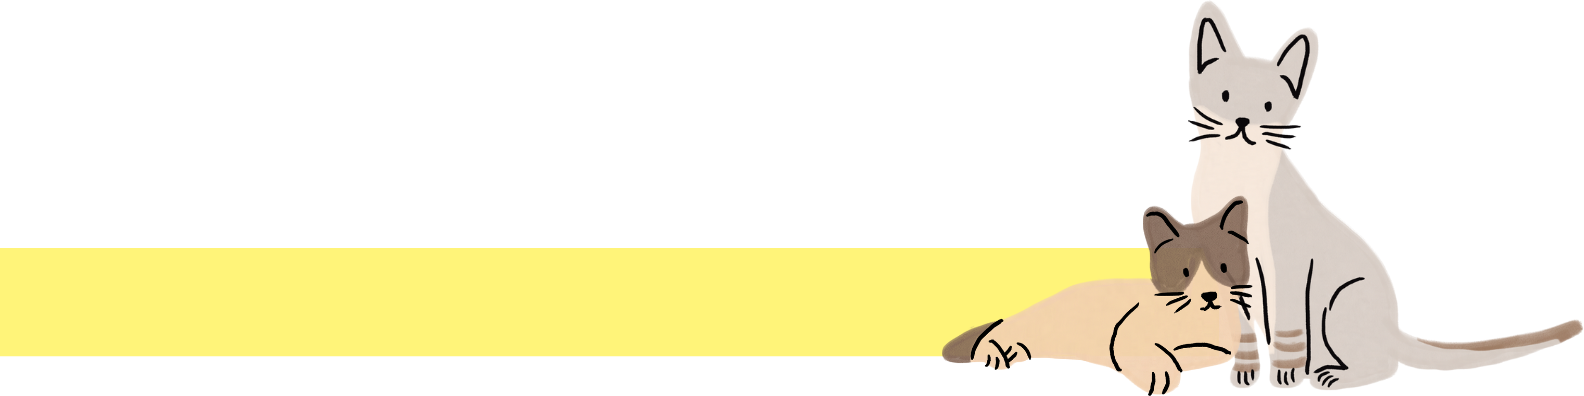
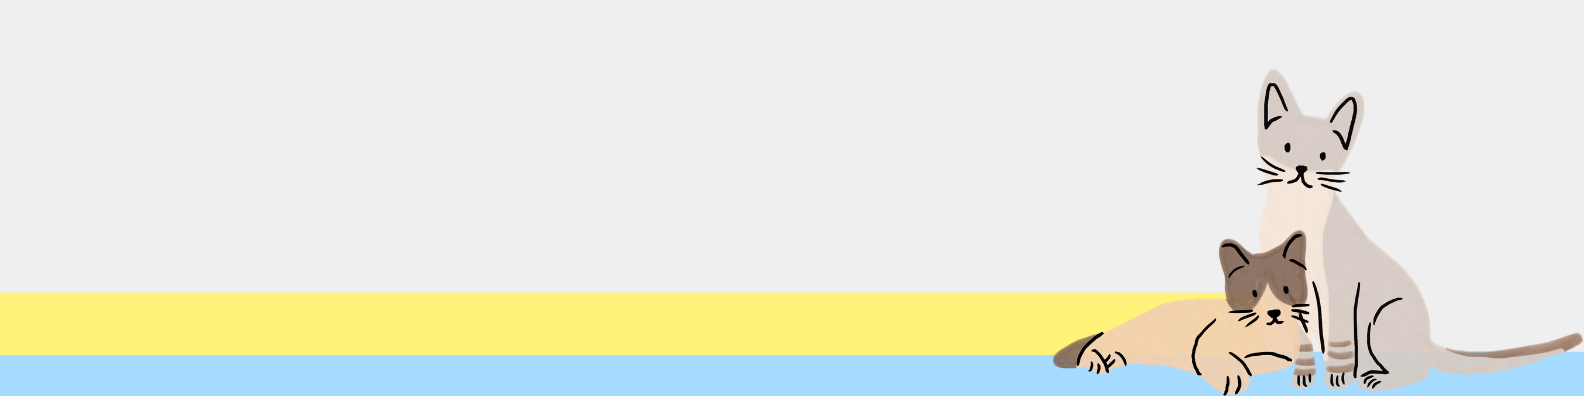
finalização home page

Changed region(s): [[0.0, 0.0, 1.0, 1.0]]

diff --git a/vite-project/src/components/Footer/Footer.jsx b/vite-project/src/components/Footer/Footer.jsx
@@ -1,15 +1,63 @@
+import "./Footer.css";
 
 const Footer = () => {
     return(
-        <footer>
-            <div className="parent-div-social-media">
+        <footer className="footer-component">
 
+            <div className="parent-div-midias-sociais">
+                <h2>Acesse também nossas redes sociais:</h2>
+                <div className="child-div-midias-sociais">
+                    <a href="https://www.facebook.com/ongparaisodosfocinhos">
+                        <img src="https://upload.wikimedia.org/wikipedia/commons/thumb/5/51/Facebook_f_logo_%282019%29.svg/2048px-Facebook_f_logo_%282019%29.svg.png" 
+                            width={60} alt="" />
+                    </a>
+                    <a href="https://www.instagram.com/ongparaisodosfocinhos/?hl=pt">
+                        <img src="https://upload.wikimedia.org/wikipedia/commons/thumb/a/a5/Instagram_icon.png/2048px-Instagram_icon.png" 
+                            width={60} alt="" />
+                    </a>
+                    <a href="https://www.tiktok.com/@ongparaisodosfocinhos?_d=dj45aci9i31688&language=pt&sec_uid=MS4wLjABAAAAlpfpmsh2jafjFVF0VUKi2T0tgUYZYOH6Nwvn71P8R3unfu7qLhoNKGEyDkVaIr5y&share_author_id=6873125894418023430&u_code=deec6f349hkg4l&timestamp=1631815310&us=&_r=1">
+                        <img src="https://icones.pro/wp-content/uploads/2021/03/logo-icone-tiktok-simbolo.png" 
+                            width={60} alt="" />
+                    </a>
+                </div>
             </div>
-
-            
+{/* 
+            <div className="child-div-info-footer">
+                <p>ONG criada para proteger animais de rua. </p>
+                <p>(CNPJ) 19.614.984/0001-29.</p>
+                <br />
+                <div className="child-div-redirect">
+                    <p> <a>Apadrinhe um peludo! </a></p>
+                    <p> <a>Adote </a></p>
+                    <p> <a>Seja um voluntário</a></p>
+                </div>
+            </div> */}
 
         </footer>
     )
 }
 
 export default Footer
+
+            {/* <div className="parent-div-social-media">
+                <span className="child-div-social-media">
+                    <img src="https://upload.wikimedia.org/wikipedia/commons/thumb/5/51/Facebook_f_logo_%282019%29.svg/2048px-Facebook_f_logo_%282019%29.svg.png" 
+                        width={70} alt="" />
+                    <p className="description-social-media">Facebook</p>
+                </span>
+                <span className="child-div-social-media">
+                    <img src="https://upload.wikimedia.org/wikipedia/commons/thumb/a/a5/Instagram_icon.png/2048px-Instagram_icon.png" 
+                        width={70} alt="" />
+                    <p className="description-social-media">Instagram</p>
+                </span>
+                <span className="child-div-social-media">
+                    <img src="https://icones.pro/wp-content/uploads/2021/03/logo-icone-tiktok-simbolo.png" 
+                        width={70} alt="" />
+                    <p className="description-social-media">TikTok</p>
+                </span>
+                <span className="child-div-social-media">
+                    <img src="https://www.freepnglogos.com/uploads/youtube-play-red-logo-png-transparent-background-6.png" 
+                        width={70} alt="" />
+                    <p className="description-social-media">YouTube</p>
+                </span>
+            </div> */}

diff --git a/vite-project/src/components/Adote/Adote.jsx b/vite-project/src/components/Adote/Adote.jsx
@@ -1,25 +1,31 @@
-import "./Adote.css"
+import "./Adote.css";
 
 const Adote = () => {
 
     return (
-        <div>
+        <div className="parent-div-">
             <div className="parent-div-adote">
                 <div className="child-div-img-adote">
                     <img src="../../../public/img/imgilustrativa-adote.png" width={400} alt="" />
                 </div>
                 <div className="child-div-Adote-text">
                     <h2 id="chamada-adocao-texto"> Adote um peludinho!</h2>
-                    <p id="texto-explicacao-adote">
-                    Nossa maior preocupação é garantir o bem estar dos animais oferecidos para adoção. Muitos deles já sofreram maus tratos e abusos e precisamos garantir que não sofram novamente qualquer tipo de privação. Por isso contamos com sua compreensão e paciência, para preencher o questionário de avaliação abaixo. Ele será também muito útil para nos orientar a definir o perfil do animal mais adequando para você.
-                    </p>
-                    <button className=""> Candidatar-se </button>
+                    <div className="child-div-text-adocao-explicacao">
+                        <p id="texto-explicacao-adote">
+                            Nossa maior preocupação é garantir o bem estar dos animais oferecidos para adoção. Muitos deles já sofreram maus tratos e abusos e precisamos garantir que não sofram novamente qualquer tipo de privação. 
+                        </p>
+                        <p id="texto-explicacao-adote"> 
+                            Contamos com sua compreensão e paciência para preencher o questionário de avaliação abaixo. Ele será também muito útil para nos orientar a definir o perfil do animal mais adequando para você.
+                        </p>
+                    </div>
+                    <div className="child-div-cantidatesebutton"> <a href="https://docs.google.com/forms/d/e/1FAIpQLSfaibov2PC2q8TvEOHTcQkmC-acZDQF3XE0vO5JnHuKJv-bYw/viewform" target="_blank">
+                        <p className="element-candidatesebutton"> Candidate-se! </p> </a>
+
+                    </div>
                 </div>
             </div>
+        <div className="separacao-div"> </div>
 
-            <div className="child-div-divisao-de-pagina">
-                <img className="img-divisao-de-pag" src="../../../public/img/img-divisora-ggatos.png"  alt="" />
-            </div>
         </div>
     )
 }

diff --git a/vite-project/src/components/Header/Header.jsx b/vite-project/src/components/Header/Header.jsx
@@ -7,17 +7,21 @@ const Header = () => {
 
             <div className="child-div-img-logo">
                 <a href="/">
-                    <img src="../../public/img/logo-paraiso.png" width={180} alt="" />
+                    <img src="../../public/img/logo-paraiso.png" width={270} alt="" />
                 </a>
             </div>
 
             <div className="child-div-info-text">
-                <a className='info-text-content' href="" target="_blank">
+                <a className='info-text-content' href="https://docs.google.com/forms/u/0/d/1GLh6auH1twhzW-bBLuqTj8NcVIe0eEvsqiV13CpBXl8/viewform?fbclid=IwAR0o3bkA9EISoPIioVETn5AverFjpN9mBgrUZAu1zSL9eLZf45nPkq1RA_o&edit_requested=true" target="_blank">
                     Voluntarie-se!</a>
                 <a className='info-text-content' href="https://docs.google.com/forms/d/e/1FAIpQLSfaibov2PC2q8TvEOHTcQkmC-acZDQF3XE0vO5JnHuKJv-bYw/viewform" target="_blank"> 
                     Adote</a>
                 <a className='info-text-content' href="https://pagseguro.uol.com.br/checkout/nc/nl/donation/sender-identification.jhtml?t=8d9e1f33bd41a413971c162c8443e9795ba8c3477033bda88db77a090ea2fcfc&e=true#rmcl" target="_blank"> 
                     Doações</a>
+                <a className='info-text-content' href="https://www.kickante.com.br/vaquinha-online/dia-de-doar-vamos-junto-com-a-paraiso-dos-focinhos-nesta-corrente-para-fazermos-castracoes-em-todo-rio-de-janeiro" target="_blank">
+                    Campanha do Kickante</a>
+                <a className='info-text-content' href="https://rifei.co/ajude-os-peludinhos-a-nao-sofrerem-mais-com-o-calor" target="_blank">
+                    Rifa Moto</a>
             </div>
         </nav>
     )

diff --git a/vite-project/src/components/Carousel/Carousel.jsx b/vite-project/src/components/Carousel/Carousel.jsx
@@ -5,11 +5,17 @@ import 'react-alice-carousel/lib/alice-carousel.css';
 const handleDragStart = (e) => e.preventDefault();
 
 const items = [
-    <img src="../../public/img/slide-home-2.jpg" onDragStart={handleDragStart} role="presentation" className='img-carousel' 
+    <img src="../../public/img/slide-home-2.jpg" onDragStart={handleDragStart} 
+    role="presentation" className='img-carousel' 
+    height={600}
     />,
-    <img src="../../public/img/slide-home-1.jpg" onDragStart={handleDragStart} role="presentation" className='img-carousel'
+    <img src="../../public/img/slide-home-1.jpg" onDragStart={handleDragStart} 
+    role="presentation" className='img-carousel'
+    height={600}
     />,
-    <img src="../../public/img/slide-home-3.jpg" onDragStart={handleDragStart} role="presentation" className='img-carousel'
+    <img src="../../public/img/slide-home-3.jpg" onDragStart={handleDragStart} 
+    role="presentation" className='img-carousel'
+    height={600}
     />,
 ];
 

diff --git a/vite-project/src/components/Adote/Adote.css b/vite-project/src/components/Adote/Adote.css
@@ -1,3 +1,4 @@
+
 .parent-div-adote{
     display: flex; flex-direction: row-reverse;
     justify-content: center;
@@ -7,13 +8,18 @@
 .child-div-img-adote{
     margin-top: 4rem;
 }
-h2{
-    font-size: 60px; color: #273084;
+
+.chamada-adocao-texto{
+    font-size: 65px; color: #273084;
     font-family: 'Itim', cursive;
+    background-color: #E2E4FF;
+    padding: 10px;
+    border-radius: 0px 90px 0px 0px;
 }
 #texto-explicacao-adote{
     font-family: 'Fredoka', sans-serif;
-    font-size: 30px;
+    font-size: 26px;
+
 }
 
 .child-div-divisao-de-pagina{
@@ -21,4 +27,25 @@ h2{
 }
 .img-divisao-de-pag{
     width: 100%;
+}
+.separacao-div{
+    height: 6rem;
+}
+
+.child-div-cantidatesebutton{
+
+    justify-content: center; align-items: center;
+
+    font-size: 20px;
+}
+.child-div-cantidatesebutton::hoover{
+    color: #FFF479;
+}
+.element-candidatesebutton{
+    margin-left: 19%;
+    font-size: 30px;
+    text-justify: center;
+}
+a{
+    text-decoration: none;
 }

diff --git a/vite-project/src/components/Header/Header.css b/vite-project/src/components/Header/Header.css
@@ -6,10 +6,10 @@
     background-color: #A4DBFF;
     width: 100%;
     display: flex;
-    flex-direction: row;
-    justify-content: space-between;
+    flex-direction: column;
+    align-items: center;
     /* border-radius: 0px 0px 30px 30px; */
-    padding: 0.2%; 
+    padding: 0.54%; 
 }
 .child-div-img-logo{
     margin-left: 1.8%;
@@ -18,16 +18,17 @@
 
 }
 .child-div-info-text {
-    width: 23rem; height: auto;
+    width: 65%; height: auto;
     display: flex; flex-direction: row;
-    justify-content: center; align-items: center;
-    margin-right: 1.3%;
+    justify-content: space-evenly; 
+    margin-top: 1rem; margin-bottom: 1rem;
+    font-family: 'Fredoka', sans-serif;;
 }
 .info-text-content {
     color: #273084;
     text-decoration: none; 
     font-style: bold;
-    font-size: 1.3rem; 
+    font-size: 1.4rem; 
     margin-left: 7%; 
 }
 .info-text-content:hover{

diff --git a/vite-project/src/components/SobreNos/SobreNos.jsx b/vite-project/src/components/SobreNos/SobreNos.jsx
@@ -7,7 +7,7 @@ const SobreNos = () => {
                 <img id='img-sobrenos-HomePage' src="../../../public/img/sobre-home.png" height={500}/>
             </div>
             <div className="text-div-sobrenos">
-                <h3> Sobre Nós </h3>
+                <h3> Sobre o Paraíso </h3>
                 <p>
                 Lorem ipsum dolor sit amet. Aut ipsa velit ad illo quos eum illum rerum. Qui quasi voluptatem ut blanditiis architecto eum sequi dolor et quia voluptates sit nobis aspernatur! Sit harum voluptas sit enim deleniti non laboriosam omnis aut autem error ut rerum neque. Sed natus perferendis aut iste debitis est iusto eligendi hic quia laudantium a sapiente molestiae quo omnis obcaecati est repellat repellat.
                 </p>

diff --git a/vite-project/src/pages/Home.jsx b/vite-project/src/pages/Home.jsx
@@ -2,16 +2,20 @@ import Header from "../components/Header/Header"
 import Gallery from "../components/Carousel/Carousel"
 import SobreNos from "../components/SobreNos/SobreNos"
 import Adote from "../components/Adote/Adote"
+import Footer from "../components/Footer/Footer"
 
 const Home = () => {
 
     return (
         <div>
+            {/* <NavbarHeader /> */}
             <Header />
-            <br />
-            {/* <Gallery /> */}
+            <Gallery />
             <SobreNos />
+            <img src="../../public/img/img-divisora-ggatos.png" width={'100%'} alt="" />
+            <br /><br /><br /><br />
             <Adote />
+            <Footer />
         </div>
     )
 

diff --git a/vite-project/src/components/Footer/Footer.css b/vite-project/src/components/Footer/Footer.css
@@ -1,0 +1,37 @@
+.footer-component{
+    margin: 0;
+    background-color: #A4DBFF;
+    width: 100%;
+    display: flex;
+    flex-direction: column;
+    align-items: center;
+    padding-bottom: 2%;
+}
+
+.description-social-media{
+    font-family: 'Itim', cursive;
+    color: #273084;
+}
+
+h2{
+    font-size: 26px;
+    font-family: 'Open Sans', sans-serif;
+}
+
+.child-div-redirect{
+    display: flex;
+    flex-direction: column; align-items: center;
+}
+
+.child-div-info-footer{
+
+}
+
+.parent-div-midias-sociais{
+
+}
+    .child-div-midias-sociais{
+        display: flex;
+        flex-direction: row;
+        justify-content: center;
+    }

diff --git a/vite-project/src/components/Ajude/Ajude.jsx b/vite-project/src/components/Ajude/Ajude.jsx
@@ -1,16 +1,16 @@
 
-
 const Ajude = () => {
 
     return (
         <div className="parent-div-formas-de-ajudar">
+
             <div className="child-div-voluntarie-se">
-                <h3></h3>
+                <h3>Seja um voluntário</h3>
                 <p></p>
-                <button></button>
             </div>
+
             <div className="child-div-apadrinhe">
-                <h3></h3>
+                <h3>Apadrinhe um Peludo</h3>
                 <p></p>
                 <button></button>
             </div>

diff --git a/vite-project/src/index.css b/vite-project/src/index.css
@@ -1,5 +1,11 @@
 body{
+    width: 100%;
     margin-left: 0;
+    background-color: #EFEFEF;
+}
+*{
+    color: #273084;
+    font-family: 'Itim', cursive;
 }
 
 /* FONTS IN THE PROJECT: 

diff --git a/vite-project/src/components/SobreNos/SobreNos.css b/vite-project/src/components/SobreNos/SobreNos.css
@@ -22,7 +22,7 @@ p{
     width: auto;
     text-align: justify;
     text-justify: inter-word;
-    margin-right: 8%;
+    margin-left: 4% ;margin-right: 8%;
 }
 h3{
     margin-left: 4%;
